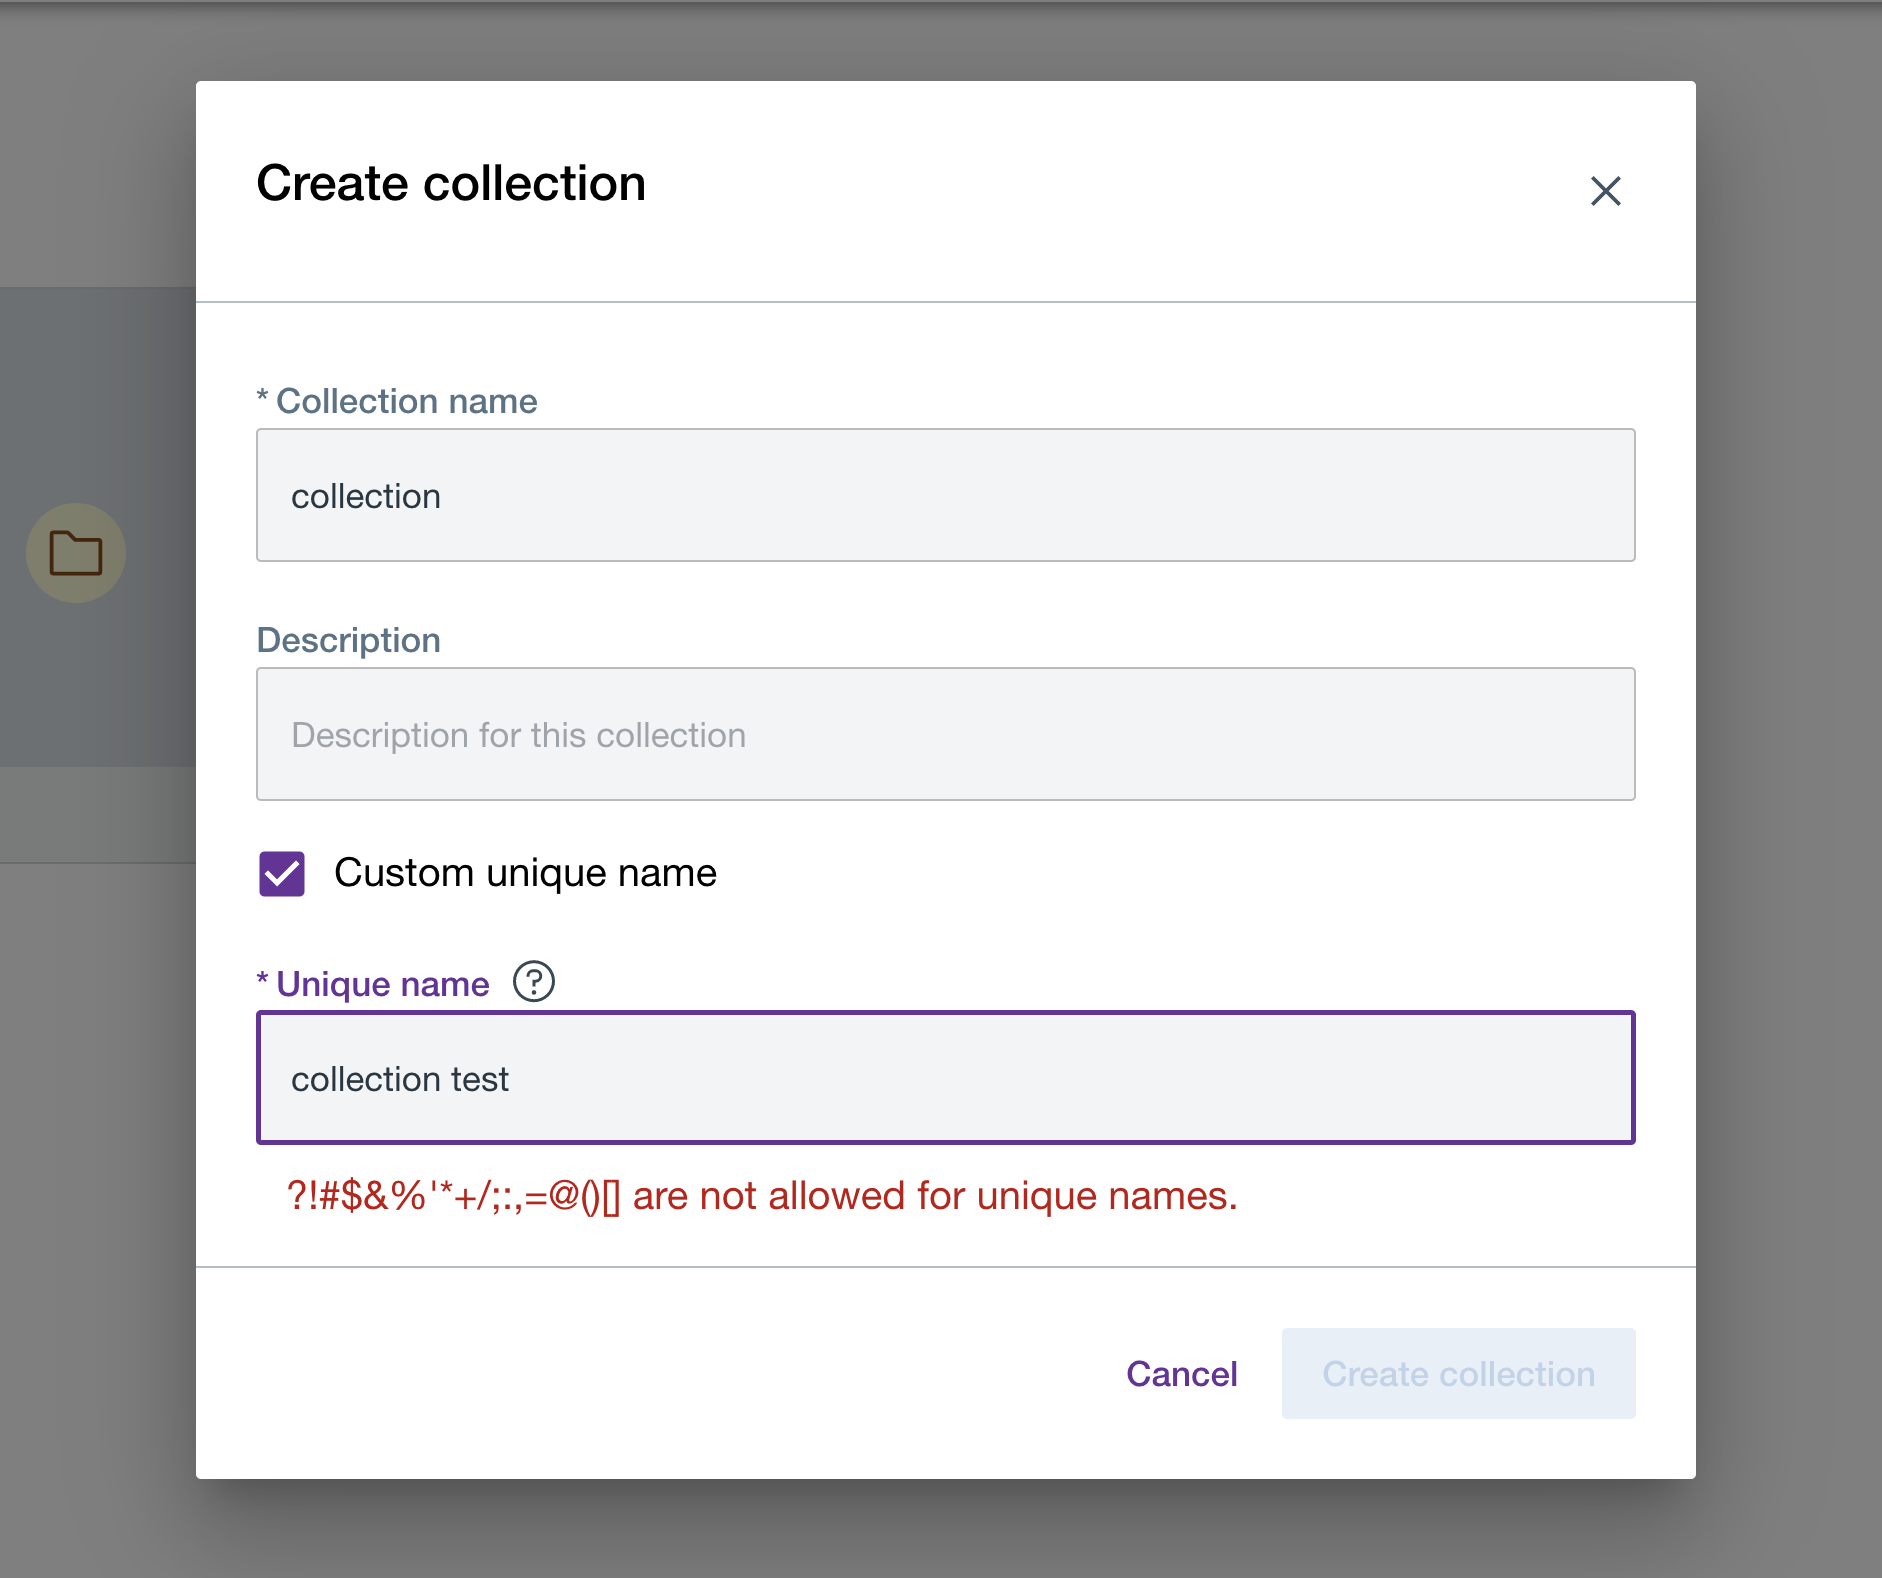
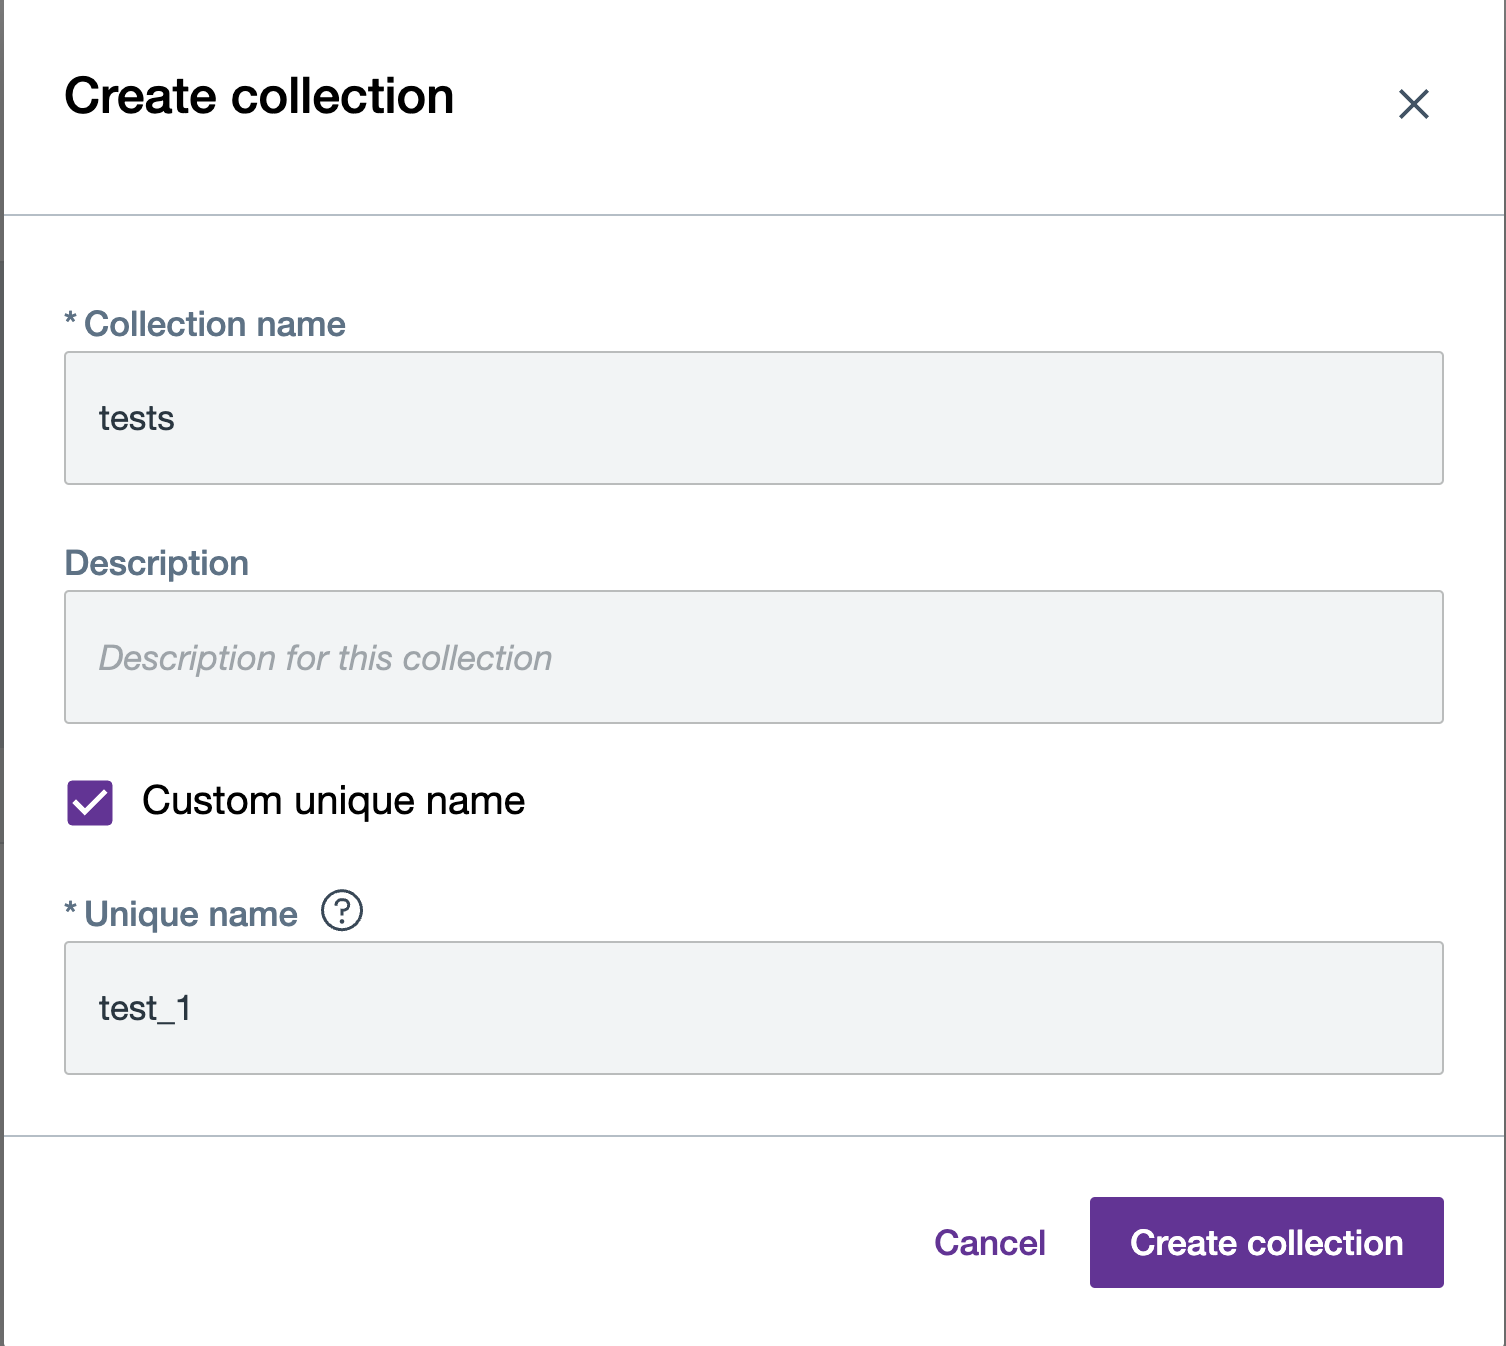
friendly url document update for unique name suggestions

diff --git a/docs/extend_dx/apis/hcl_experience_api/dam_friendly_urls.md b/docs/extend_dx/apis/hcl_experience_api/dam_friendly_urls.md
@@ -19,7 +19,7 @@ A friendly URL makes a web address easy-to-read by using words to describe the c
 
 In contrast, a `binaryUrl` you get from **Copy link** on the **Edit** page, consists of a string of characters representing the `collection_id`, `item_id`, and `rendition_id`.
 
-![](../../../images/copy_link_edit_page.png "Copy link from the Edit page")
+![](../../../images/copy_link_edit_page.png "Copy link from the Edit page"){ width=50% }
 
 **Sample `binaryUrl`**:
 
@@ -29,7 +29,7 @@ In contrast, a `binaryUrl` you get from **Copy link** on the **Edit** page, cons
 
 Meanwhile, a `customUrl` provides the original rendition of an asset. The `customUrl` is not related to a friendly URL.
 
-![](../../../images/edit_information_tab_custom_url_field.png "Custom URL field from the Edit page")
+![](../../../images/edit_information_tab_custom_url_field.png "Custom URL field from the Edit page"){ width=50% }
 
 **Sample `customUrl`**:
 
@@ -98,11 +98,11 @@ self: /collections/collection-one/items/car.jpg/renditions/Desktop.
 
 If an asset happens to have the same name with another asset in a collection, a notification is displayed in the **Information** panel.
 
-![Notification to rename an asset](../../../images/information_panel_rename_notification.png)
+![Notification to rename an asset](../../../images/information_panel_rename_notification.png){ width=50% }
 
 You can click **Rename** from the notification and provide a unique name.
 
-![Rename asset dialog](../../../images/dialog_rename_field.png)
+![Rename asset dialog](../../../images/dialog_rename_field.png){ width=50% }
 
 ## What is collection unique-name?
 Collection unique-names are the unique identifier for each collection which can be used in friendly url instead of collection UUID to access DAM assets. Collection unique-names supports all languages as per existing system. Collection unique-name does not support any URL reserved characters(e.g. "?!#$&%'*+/;:,=@()\[]").
@@ -110,8 +110,9 @@ Collection unique-names are the unique identifier for each collection which can 
 ## How collection unique-names are generated?
 - While creating a collection, the user has a provision to enter a custom collection unique-name.
 
-![](../../../images/CreateCollection_friendlyUrl-1.png "Create collection popup")
-![](../../../images/CreateCollection_friendlyUrl-2.png "Create collection popup")
+![](../../../images/CreateCollection_friendlyUrl-1.png "Create collection popup"){ width=45% }
+![](../../../images/CreateCollection_friendlyUrl-2.png "Create collection popup"){ width=47% }
+![](../../../images/CreateCollection_friendlyUrl-3.png "Create collection unsupported unique name"){ width=45% }
 
 - Collection unique-name is an optional field. If it is not provided by the user, the system will generate a collection unique-name based on the collection name replacing all the URL reserved characters (e.g. "?!#$&%'*+/;:,=@()\[]") with underscores.
 - Collection unique-names will follow simple format of adding “_Number” for collections having same collection-names.
@@ -119,17 +120,25 @@ Collection unique-names are the unique identifier for each collection which can 
 
 ## How can the user change the collection unique-names?
 Once the collection unique-name is generated, user will be able to view/edit the collection unique-name in the collection information panel.
-![](../../../images/CollectionEdit_friendlyUrl.png "Collection edit panel")
-![](../../../images/CollectionEdit_friendlyUrl-1.png "Collection edit panel")
 
-## What happens if collection unique-name already exists while creating collection?
-When creating a collection, DAM checks for any duplication of the unique-name and prompts with an error message if a duplicate is found in any other collection.
-![](../../../images/CreateCollectionError_friendlyUrl_1.png "Create collection duplicate unique name")
-![](../../../images/CreateCollectionError_friendlyUrl_2.png "Create collection unsupported unique name")
+![](../../../images/CollectionEdit_friendlyUrl.png "Collection edit panel"){ width=47% }
+
+![](../../../images/CollectionEdit_friendlyUrl-1.png "Collection edit panel"){ width=45% }
+
+## What happens if collection unique-name already exists while creating or editing a collection?
+While creating or editing a collection, DAM checks for any duplication of the unique-name and prompts with an error message & an available unique-name as a suggestion if a duplicate is found in any other collection.
+![](../../../images/CreateCollectionError_friendlyUrl_1.png "Create collection duplicate unique name"){ width=45% }
+![](../../../images/CreateCollectionError_friendlyUrl_2.png "Create collection suggestion click"){ width=45% }
+
+- when the user clicks on the suggested name, unique-name input field get prefilled with the suggested unique-name.
+
+![](../../../images/EditCollectionError_friendlyUrl_1.png "Edit collection duplicate unique name"){ width=45% }
+![](../../../images/EditCollectionError_friendlyUrl_2.png "Edit collection suggestion click"){ width=50% }
+
 
 ## Copying friendly URLs for assets
 Users can copy the friendly URL and API URL of an asset from the URLs section of the asset's inspector panel
-![](../../../images/Copy_friendlyUrl.png "Copy friendly URL")
+![](../../../images/Copy_friendlyUrl.png "Copy friendly URL"){ width=50% }
 
 
 ???+ info "Related information"
